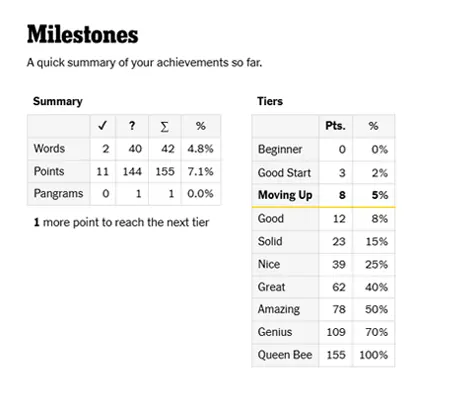
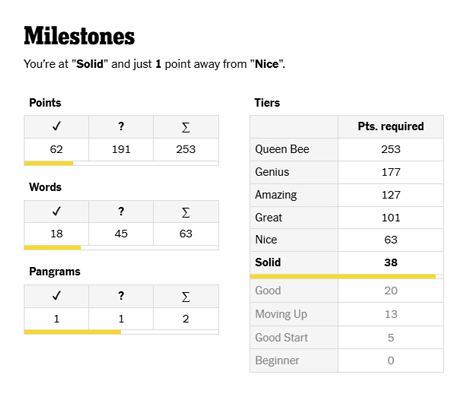
website related work

diff --git a/src/scss/inc/_sba.scss b/src/scss/inc/_sba.scss
@@ -19,6 +19,48 @@
     }
 }
 
+.sba-toggle-switch:where([type="checkbox"][role="switch"]) {
+    -webkit-appearance: none;
+    -moz-appearance: none;
+    appearance: none;
+    position: relative;
+    color: var(--border-color);
+    font-size: inherit;
+    width: 2em;
+    height: 1em;
+    box-sizing: content-box;
+    border: 1px solid;
+    border-radius: 1em;
+    vertical-align: text-bottom;
+    margin: auto;
+    cursor: pointer;
+    background: var(--body-bg-color);
+    &::before {
+        content: "";
+        position: absolute;
+        top: 50%;
+        left: 0;
+        transform: translate(0, -50%);
+        box-sizing: border-box;
+        width: 0.7em;
+        height: 0.7em;
+        margin: 0 0.15em;
+        border: 1px solid;
+        border-radius: 50%;
+        background: var(--text-color);
+    }
+    &:checked {
+        background: var(--toggle-on-bg-color);
+        &::before {
+            left: 1em;
+            background: var(--border-color);
+        }
+    }
+    &:disabled {
+        opacity: 0.4;
+    }
+}
+
 .sba {
     background: var(--body-bg-color);
 
@@ -155,6 +197,10 @@ details {
 }
 
 [data-ui="community"] {
+    .sb-modal-body {
+        margin-block-end: 0;
+    }
+
     h4 {
         font-weight: 700;
         font-family: nyt-franklin;
@@ -200,10 +246,6 @@ details {
 [data-ui="milestones"] {
     $gapV: 12;
     $gapH: 40;
-
-    .sb-modal-body {
-        margin-top: 0;
-    }
 
     .sba-milestone-table-wrapper {
         display: flex;
@@ -253,7 +295,7 @@ details {
 
     .sba-data-pane {
         width: 100%;
-        
+
         td {
             &.sba-progress-box {
                 padding: 0;
@@ -262,8 +304,8 @@ details {
 
         tr {
             &.sba-completed {
-                td {
-                    color: var(--text-color);
+                :is(th, td) {
+                    color: var(--invalid-color);
                 }
             }
         }
@@ -434,6 +476,10 @@ progress {
     .cell-letter {
         font-size: 8px;
         font-weight: 600;
+    }
+
+    .sba-toggle-label {
+        padding-inline-end: 10px;
     }
 }
 

diff --git a/index.html b/index.html
@@ -264,8 +264,7 @@
 		
 					</figure>
 					<article>
-						<p>An overview of the different ranks and how far you made it into your journey. You can also
-							launch the <strong>Milestones</strong> screen by clicking on the <strong>Progress Bar</strong>.</p>
+						<p>An overview of the different ranks and how far you made it into your journey.</p>
 					</article>
 				</li>
 				<li class="card"  id="fe-grid">
@@ -478,10 +477,6 @@
 					is a
 					fun weekend project and I don’t want it to be a burden. I might work on issues from time to time,
 					but I can’t make any promises.</p>
-				<p>You can also find me at <a href="https://www.reddit.com/r/NYTSpellingBee" rel="noopener"
-						target="_blank">r/NYTSpellingBee</a> where I regularly post the latest updates under the handle
-					<a href="https://www.reddit.com/user/spellingBeeAssistant" target="_blank"
-						rel="noopener">spellingBeeAssistant</a>.</p>
 			</section>
 			<section>
 				<h2>Is the NYT behind this or are you affiliated with the NYT?</h2>

diff --git a/src/scss/inc/_colors.scss b/src/scss/inc/_colors.scss
@@ -25,7 +25,7 @@ $themeColors: (
         modal-bg:    hsl(0, 0%, 100%, 0.85),
         border:      hsl(0, 0%, 86%),
         area-bg:     hsl(0, 0%, 90%),
-        invalid:     hsl(0, 0%, 68%),
+        invalid:     hsla(0, 0%, 53%, 1),
         menu-hover:  hsl(0, 0%, 96%),
         head-row-bg:  hsl(0, 0%, 96%),
         card: 	     hsl(52, 93%, 55%, 0.1),
@@ -34,6 +34,8 @@ $themeColors: (
         link-hover:  hsl(var(--link-hue), 45%, 53%),
         sba-success: hsl(112, 93%, 35%),
         sba-error: hsl(352, 93%, 35%),
+        toggle-on-bg: hsl(90, 60%, 40%),
+        toggle-off-bg: hsl(90, 0%, 50%),
     ),
     dark: (
         highlight-bg: hsl(49, 96%, 50%),
@@ -52,6 +54,8 @@ $themeColors: (
         link-hover:    hsl(var(--link-hue), 90%, 76%),
         sba-success: hsl(112, 93%, 55%),
         sba-error: hsl(352, 93%, 41%),
+        toggle-on-bg: hsl(90, 60%, 50%),
+        toggle-off-bg: hsl(90, 0%, 80%),
     )
 );
 

diff --git a/todo-remove-state.md b/todo-remove-state.md
@@ -1,0 +1,64 @@
+## TODO: Cleanup Widget State Management
+
+Ziel: Entfernen der allgemeinen `toggle/setState/getState`-Logik aus `Widget`, da sie nur noch für `darkMode` und ggf. `panel` gebraucht wird.
+
+---
+
+### ✅ Allgemeine Strategie
+
+- Entferne `toggle`, `getState`, `setState` aus der `Widget`-Basisklasse.
+- Falls `panel` weiterhin toggelbar bleiben soll, eigene Methoden direkt im Plugin implementieren.
+- Behalte `enabled`-Status nur für `darkMode` und `panel` in `settings.options`.
+
+
+### 📝 Plugin-spezifisch
+
+- Entferne `canChangeState` und `defaultState` aus allen Plugins außer:
+  - `darkMode`
+  - `panel`
+- Falls `enabled` geprüft wird (z. B. in `run()`), dort auch bereinigen.
+
+
+### 📊 Settings/Options
+
+- Reduziere gespeicherte Settings auf:
+  ```js
+  options = {
+    darkMode: { enabled: true },
+    panel: { enabled: false },
+    version: "5.0.0"
+  }
+  ```
+- Passe das Migrationsskript in `settings.js` an:
+  - Entferne Altlasten wie `score`, `yourProgress`
+  - Setze explizit `enabled` nur für `darkMode` und `panel`
+
+
+### 📁 UI (Menü)
+
+- Nur für `darkMode` und `panel` Checkboxes anzeigen
+- Einfache Hilfsfunktion einführen:
+  ```js
+  const togglablePlugins = ["darkMode", "panel"];
+  const isTogglable = (key) => togglablePlugins.includes(key);
+  ```
+- Menü-Komponenten entsprechend anpassen
+
+
+### 🔢 Registry / App-Init
+
+- Plugin-Initialisierung vereinfachen:
+  - Keine Prüfung mehr auf `enabled` außer für `darkMode` und `panel`
+  - Alle anderen Plugins einfach registrieren
+
+
+### ✨ Nice to have
+
+- JSDoc-Kommentare in `Widget`, `darkMode`, `panel` aktualisieren
+- Kommentar im `Widget`-Code oder Plugin-Doku: Nur `darkMode` und `panel` sind toggelbar
+- Review: Gibt es noch tote `enabled`-Checks z. B. in alten `if (...) plugin.enabled && ...`
+
+---
+
+Sobald das durch ist, ist die gesamte State-Verwaltung deutlich sauberer und leichter zu überblicken.
+

diff --git a/visual-bugs.md b/visual-bugs.md
@@ -1,0 +1,9 @@
+# light mode
+- genius screen - text on button 'view all games' disappears on hover
+- colors grayed out text: panel tables should be lighter than milestone table
+- cast: 
+```
+if (content instanceof Node) {
+    return content;
+}
+```
